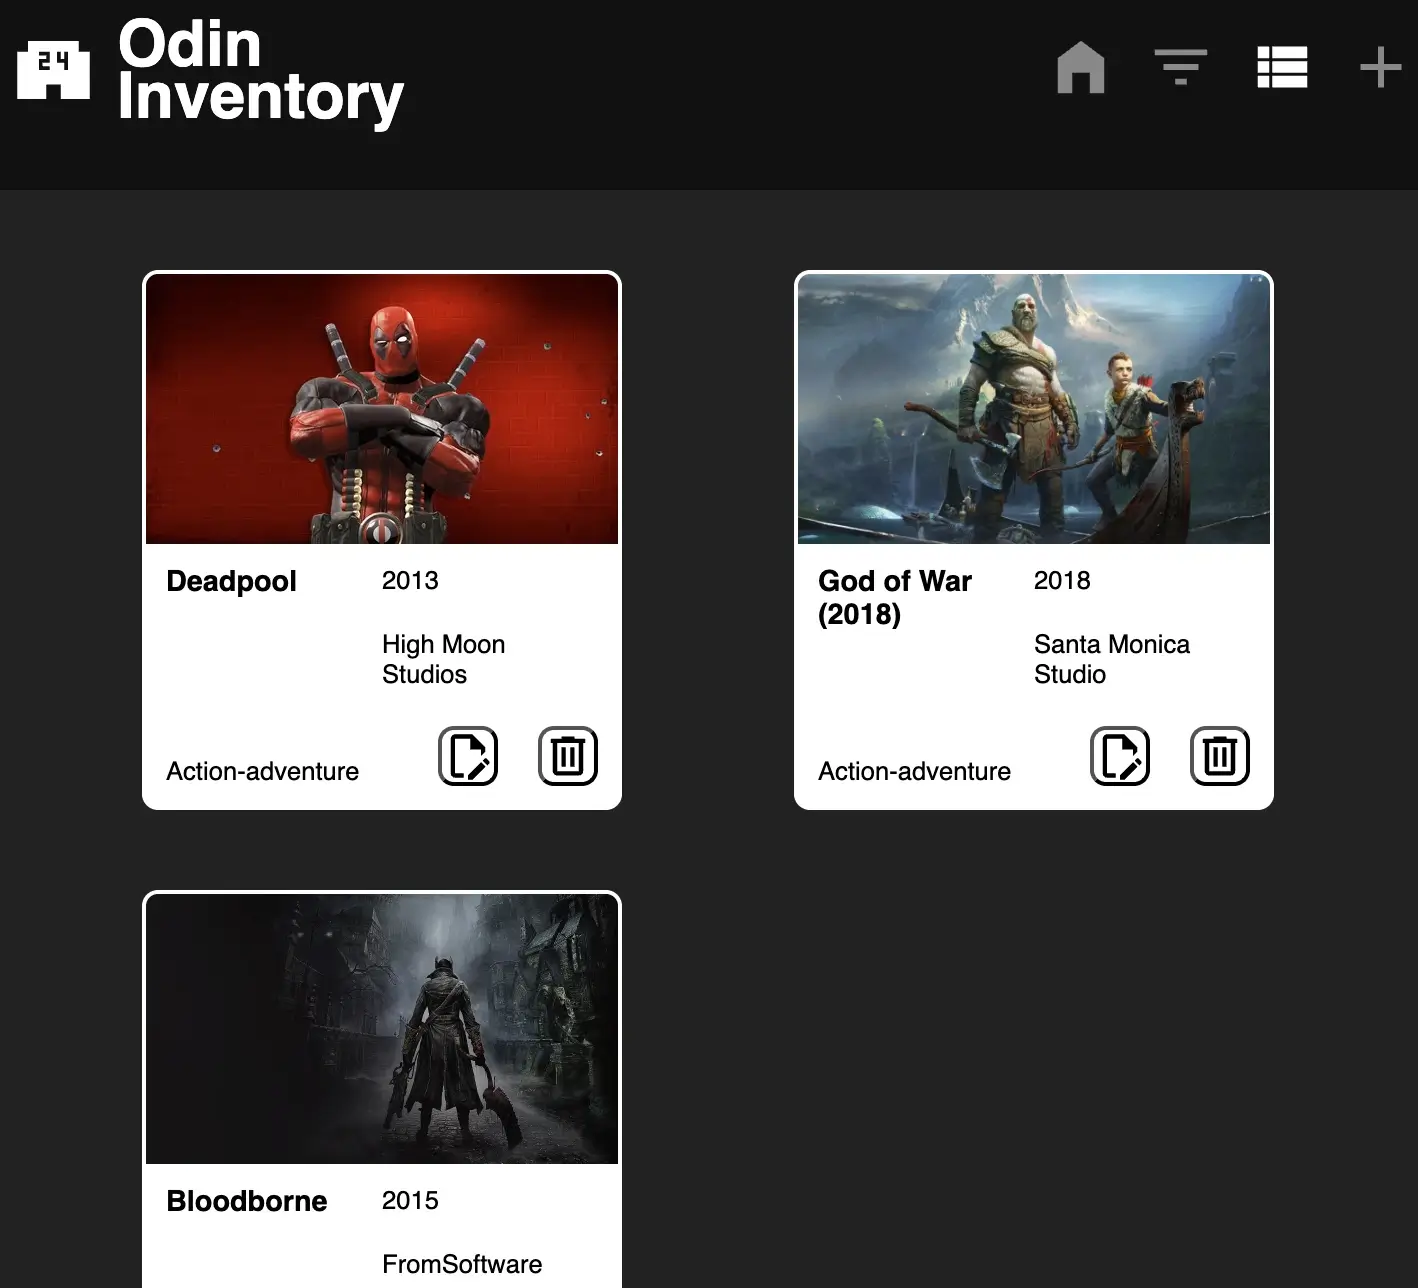
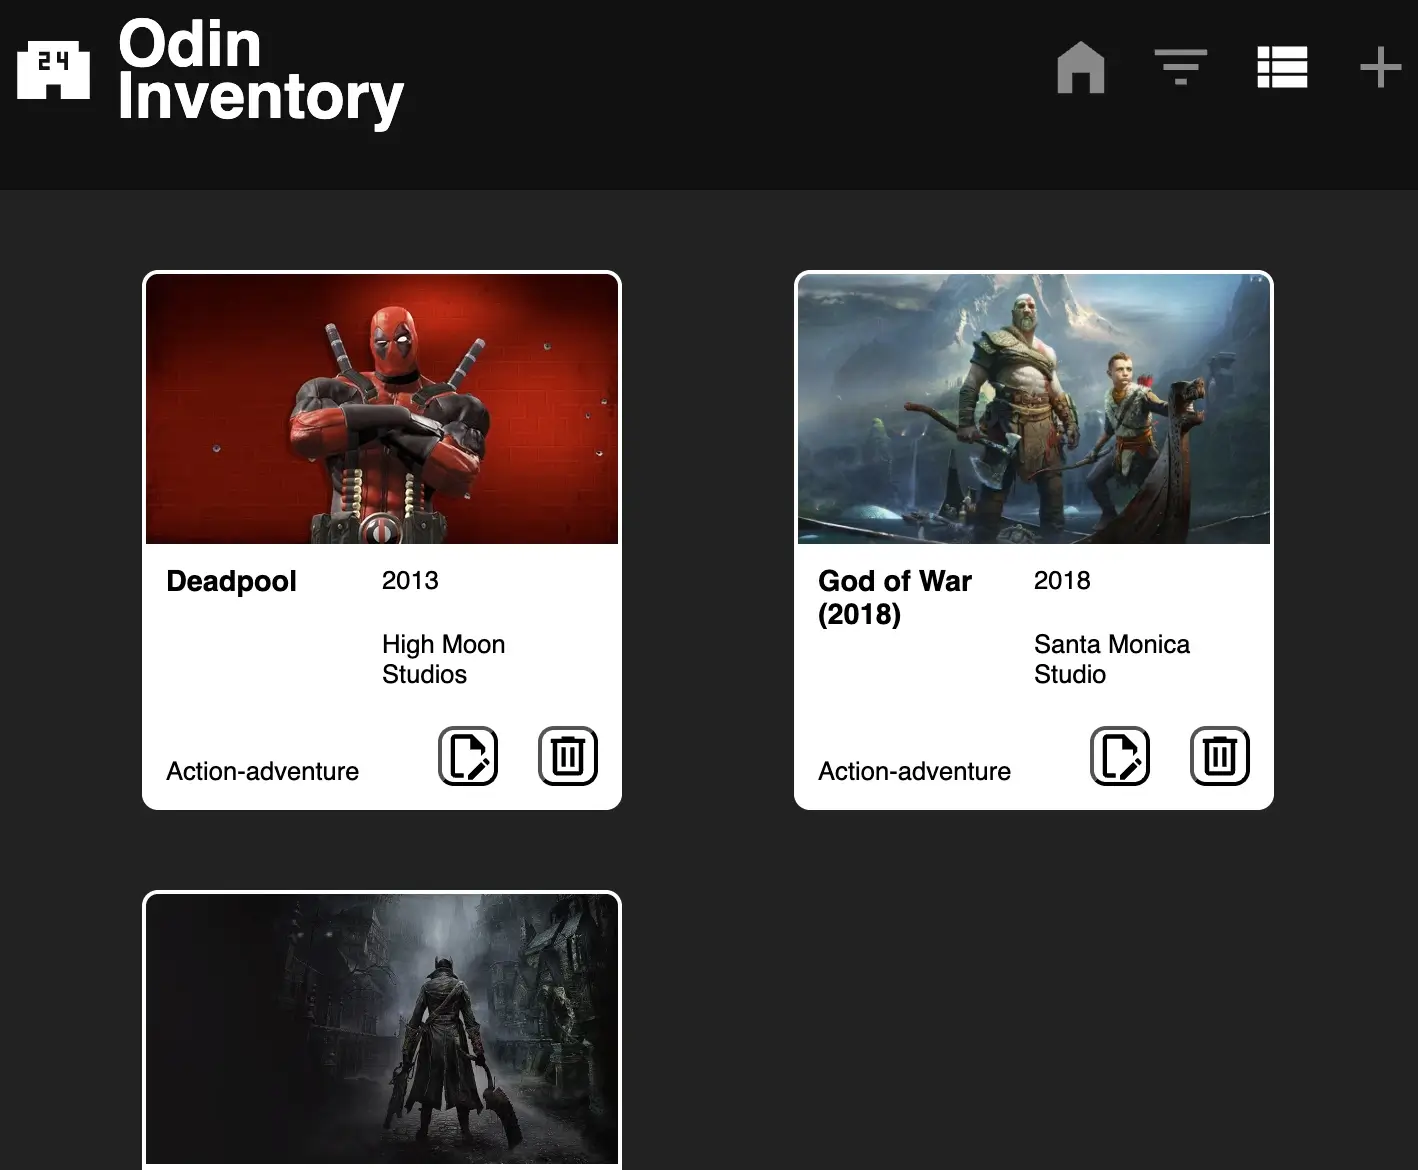
layout fixes for projects

diff --git a/src/data/projects.ts b/src/data/projects.ts
@@ -1,11 +1,9 @@
 import top from "../assets/project-thumbnails/top-projects.webp"
 import weather from "../assets/project-thumbnails/weather.webp"
-import calc from "../assets/project-thumbnails/calc.webp"
 import memorycard from "../assets/project-thumbnails/memorycard.webp"
 import blog from "../assets/project-thumbnails/blog.webp"
 import shopping from "../assets/project-thumbnails/shopping.webp"
 import supersecret from "../assets/project-thumbnails/supersecret.webp"
-import tictactoe from "../assets/project-thumbnails/tictactoe.webp"
 import fileuploader from "../assets/project-thumbnails/fileuploader.webp"
 import msgboard from "../assets/project-thumbnails/msgboard.webp"
 import inventory from "../assets/project-thumbnails/inventory.webp"
@@ -83,7 +81,7 @@ const projects:project[] = [
     },
     {
         title: "Weather App",
-        description: "A functioning weather app, built using WeatherAPI's free API, as well as JavaScript Promises.", 
+        description: "My version of the classic weather app, built using WeatherAPI's free API, as well as JavaScript Promises.", 
         technologies: ["HTML", "CSS", "JavaScript"], 
         githubLink: "https://github.com/safarinexus/odin_projects/tree/main/odin-js-weatherapp",
         demoLink: "https://safarinexus.github.io/edgr-odinprojects/odin-js-weatherapp/index.html",
@@ -97,22 +95,6 @@ const projects:project[] = [
         demoLink: "https://safarinexus.github.io/edgr-odinprojects/odin-js-todo/dist/index.html",
         image: todo,
     },
-    {
-        title: "Calculator",
-        description: "An on-screen calculator in your browser!", 
-        technologies: ["HTML", "CSS", "JavaScript"], 
-        githubLink: "https://github.com/safarinexus/odin_projects/tree/main/odin-calculator",
-        demoLink: "https://safarinexus.github.io/edgr-odinprojects/odin-calculator/calculator.html",
-        image: calc,
-    },
-    {
-        title: "Tic-Tac-Toe",
-        description: "A simple game of Tic-Tac-Toe played from your browser! Made Using JS IIFEs and Factory Functions.", 
-        technologies: ["HTML", "CSS", "JavaScript"], 
-        githubLink: "https://github.com/safarinexus/odin_projects/tree/main/odin-js-tictactoe",
-        demoLink: "https://safarinexus.github.io/edgr-odinprojects/odin-js-tictactoe/jstictactoe.html",
-        image: tictactoe,
-    }, 
     {
         title: "Kyla's Birthday Website",
         description: "A website that I made for my partner's birthday, using plain & simple HTML, CSS & JavaScript", 

diff --git a/src/components/Projects.tsx b/src/components/Projects.tsx
@@ -21,16 +21,54 @@ const Projects = () => {
                 scale: 1.3,
             })
             for (let i = 1; i < projects.length; i++) {
-                if (i === 6 || i === 1) {
-                    tl.from(`#project${i}`, {
-                        y: "160%",  
-                        scale: 1.3,
-                    })
-                } else {
-                    tl.from(`#project${i}`, {
-                        y: "130%",  
-                        scale: 1.3,
-                    })
+                switch (i) { 
+                    case 1: 
+                        //blog api
+                        tl.from(`#project${i}`, {
+                            y: "145%",  
+                            scale: 1.3,
+                        })
+                        break;
+                    case 4: 
+                        //messageboard
+                        tl.from(`#project${i}`, {
+                            y: "125%",  
+                            scale: 1.3,
+                        })
+                        break;
+                    case 5: 
+                        //memory card
+                        tl.from(`#project${i}`, {
+                            y: "140%",  
+                            scale: 1.3,
+                        })
+                        break;
+                    case 6: 
+                        //shop
+                        tl.from(`#project${i}`, {
+                            y: "160%",  
+                            scale: 1.3,
+                        })
+                        break;
+                    case 7: 
+                        //weather
+                        tl.from(`#project${i}`, {
+                            y: "125%",  
+                            scale: 1.3,
+                        })
+                        break;
+                    case 8: 
+                        //todo
+                        tl.from(`#project${i}`, {
+                            y: "130%",  
+                            scale: 1.3,
+                        })
+                        break;
+                    default: 
+                        tl.from(`#project${i}`, {
+                            y: "120%",  
+                            scale: 1.3,
+                        })
                 }
             }
             
